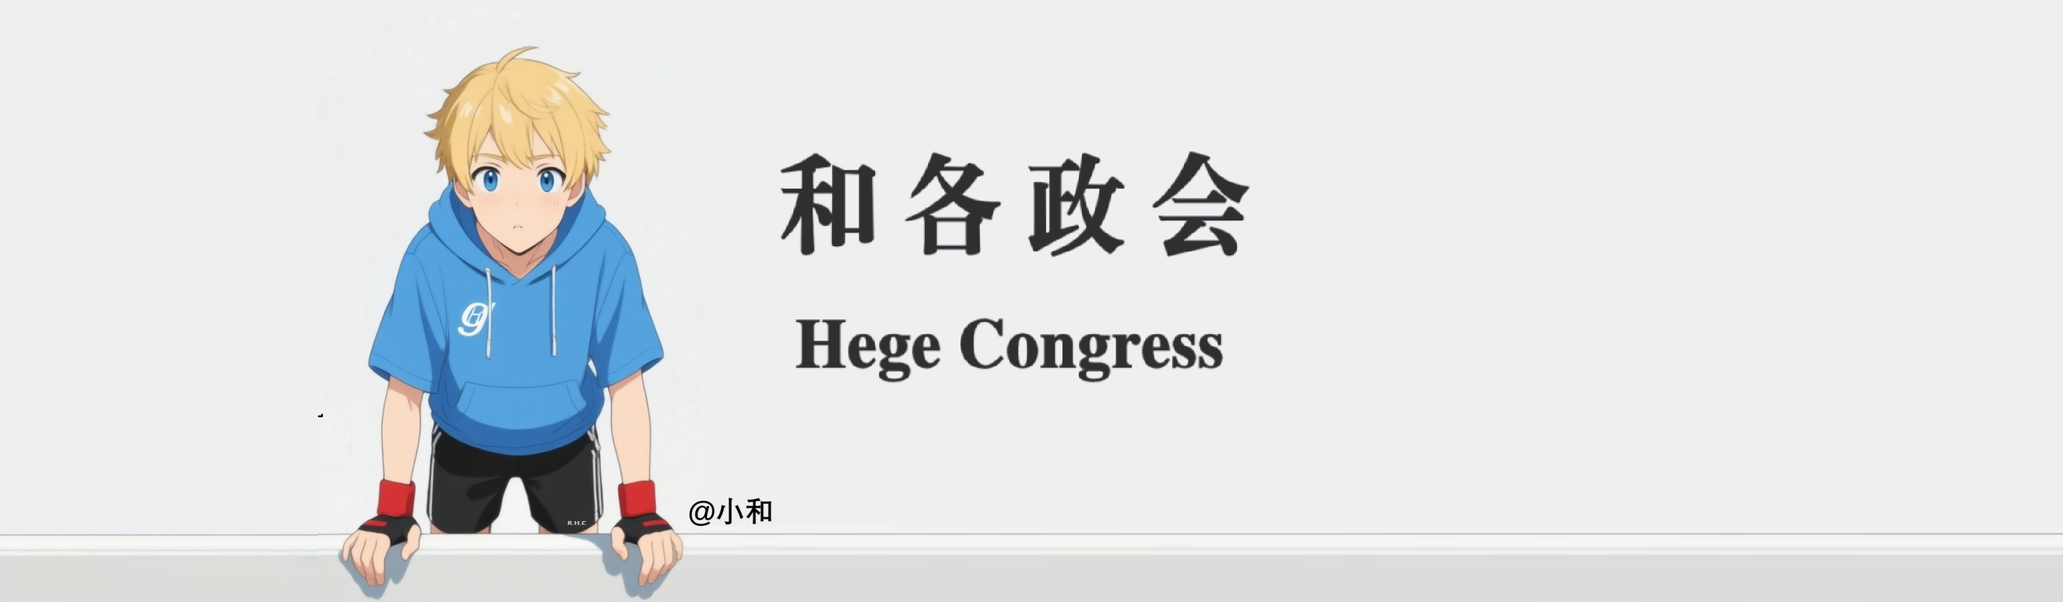
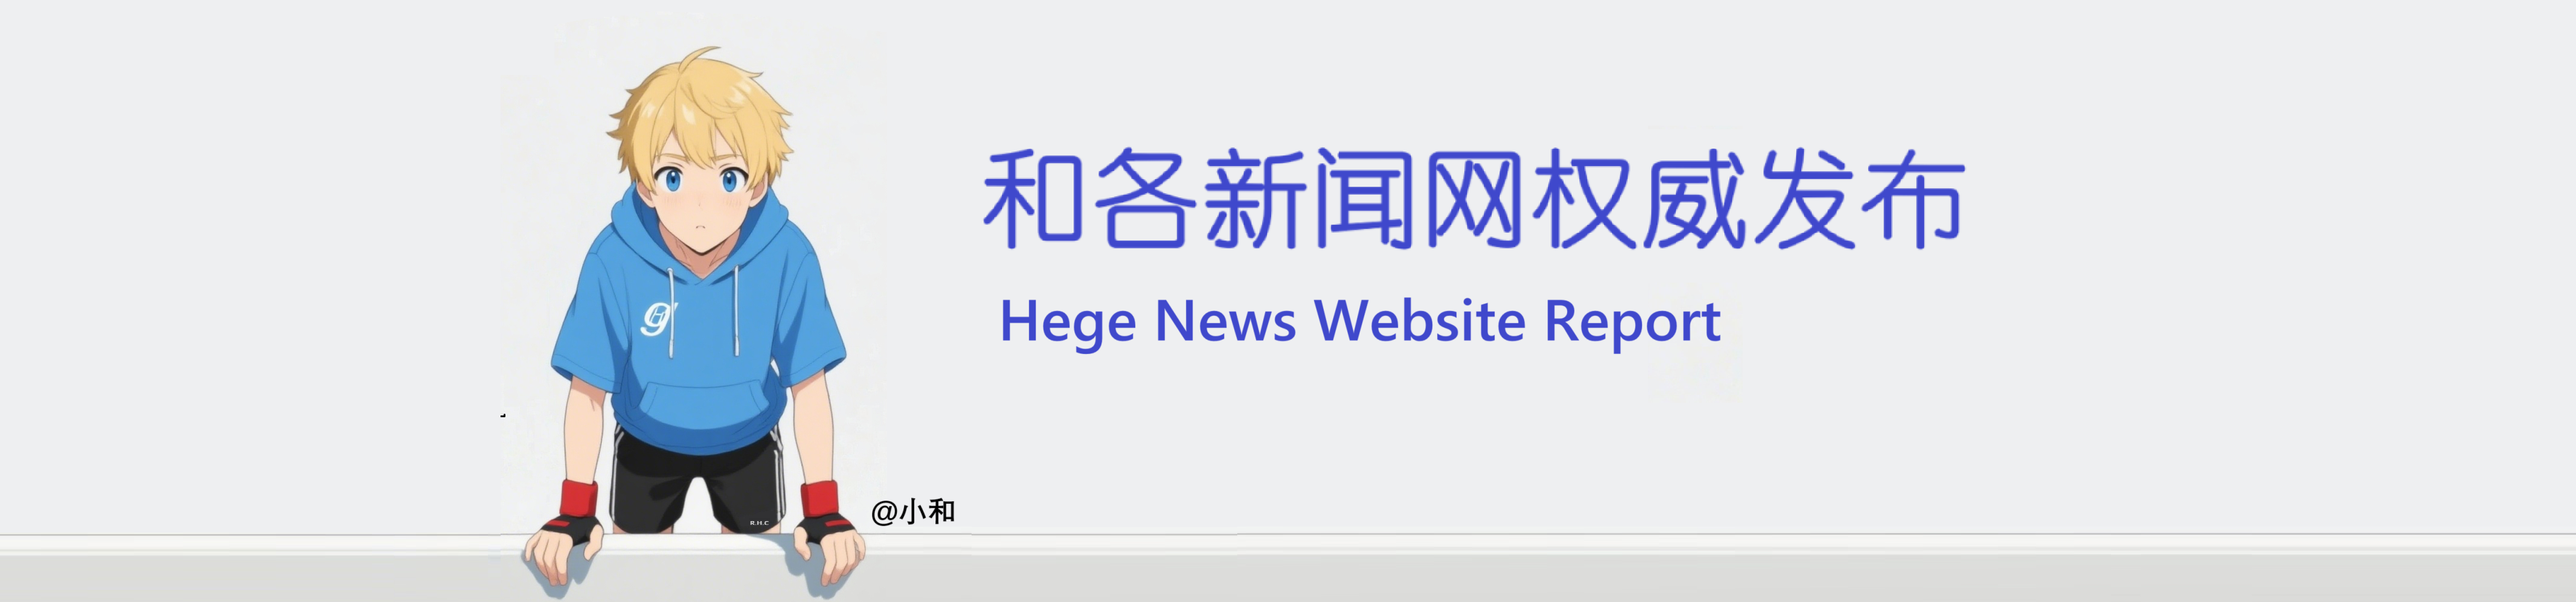
Refactor code structure for improved readability and maintainability

Changed region(s): [[0.1551, 0.0622, 0.3721, 0.995], [0.3721, 0.2487, 0.7753, 0.4353], [0.3721, 0.4975, 0.6823, 0.6219]]

diff --git a/_posts/2025-07-06-shelun1.md b/_posts/2025-07-06-shelun1.md
@@ -2,7 +2,7 @@
 title: "社论|为和各向社会主义更高阶段迈进提供强大动力和制度保障"
 excerpt: "为和各向社会主义更高阶段迈进提供强大动力和制度保障——筑牢根基，开启新程"
 header:
-  image: /assets/images/hegegov1.png
+  image: /assets/images/和各政会.png
 comments: true
 date: 2025-07-06 01:01:01
 categories: [社论]  # 分类（可多个）

diff --git a/_posts/2025-07-01-NUNhhjleave.md b/_posts/2025-07-01-NUNhhjleave.md
@@ -2,7 +2,7 @@
 title: "HHJ主席离任NUN发表声明，NUN各成员国感谢了其做出的贡献"
 excerpt: "前我国NUN主席HHJ在离任NUN之际发表了声明《致N国联合组织的一封信》"
 header:
-  image: /assets/images/hegegov1.png
+  image: /assets/images/和各新闻.png
 comments: true
 date: 2025-07-01 08:50:10
 categories: [新闻]  # 分类（可多个）
